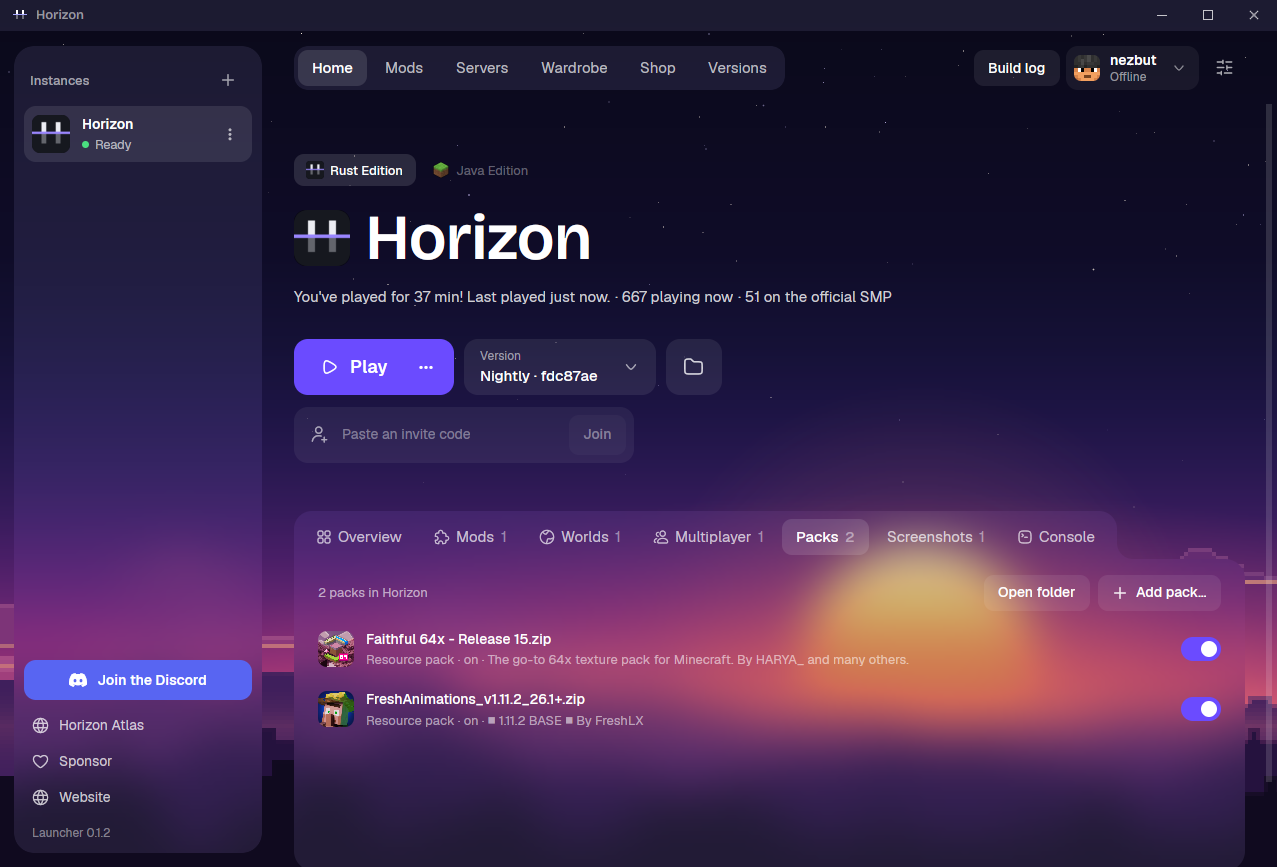
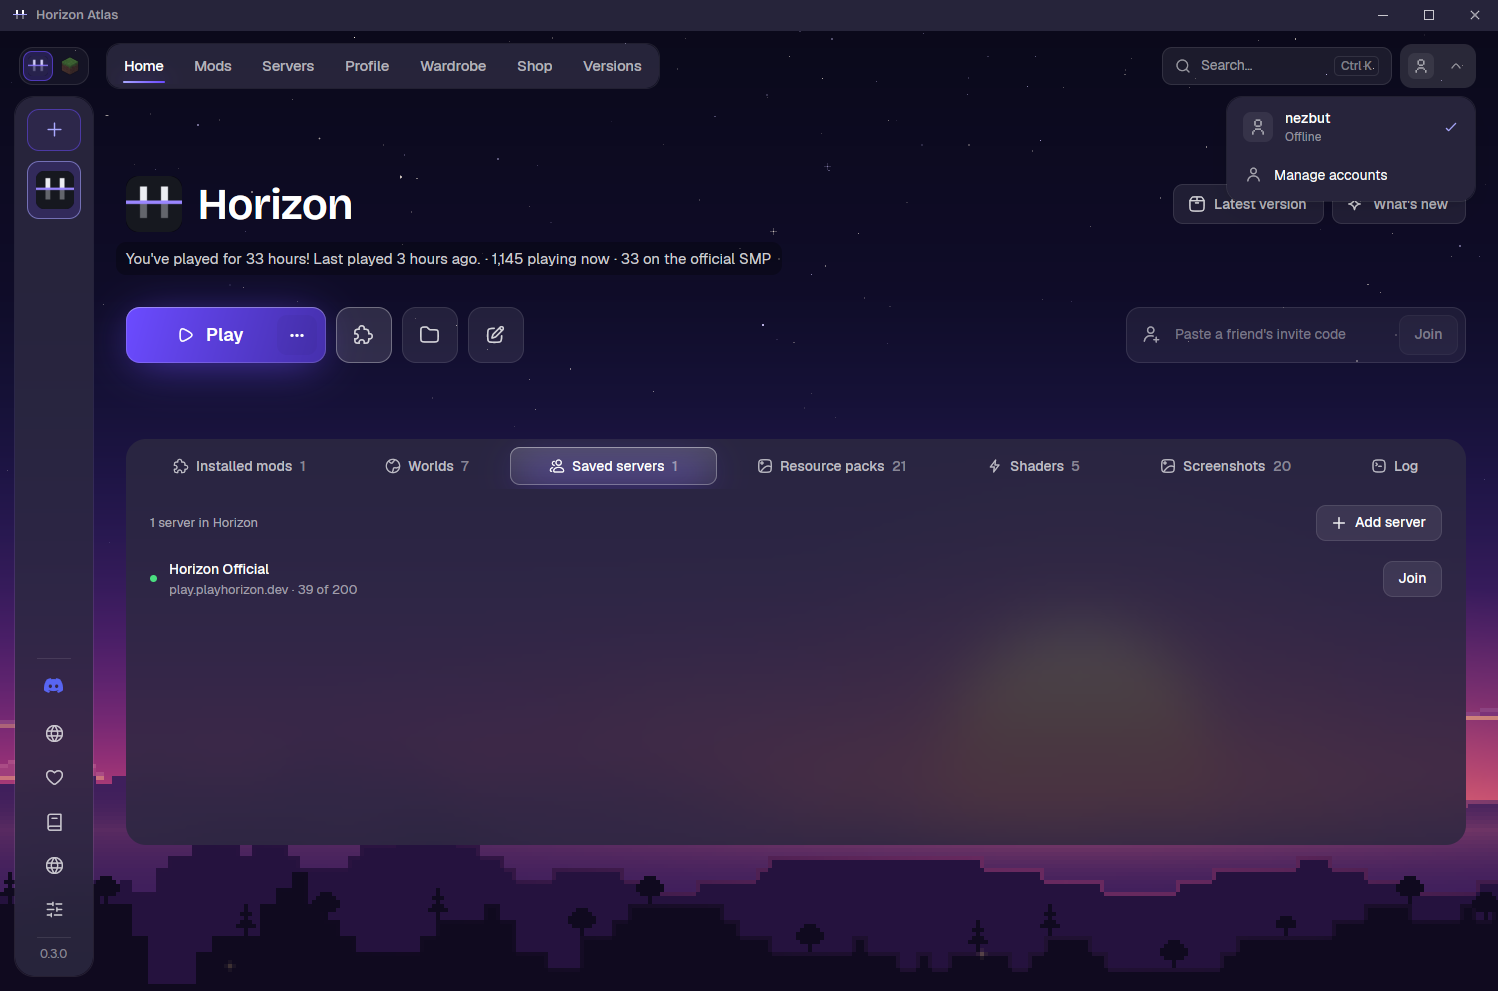
atlas: README shows the launcher's new Home page

diff --git a/README.ru.md b/README.ru.md
@@ -31,7 +31,7 @@
 </p>
 
 <p align="center">
-  <img src="docs/media/atlas/launcher.png" alt="Horizon Atlas: главная страница с кнопкой Play, офлайн-именем игрока, сборкой игры Nightly и двумя ресурспаками" width="100%">
+  <img src="docs/media/atlas/launcher.png" alt="Horizon Atlas: главная страница с кнопкой Play, меню аккаунта с офлайн-именем игрока и сохранённым сервером" width="100%">
 </p>
 
 > **Неофициальный.** Сделан игроком. Не связан с авторами Horizon, Mojang или Microsoft и не поддерживается ими: с

diff --git a/README.md b/README.md
@@ -31,7 +31,7 @@
 </p>
 
 <p align="center">
-  <img src="docs/media/atlas/launcher.png" alt="Horizon Atlas: the Home page with Play, an offline player name, the Nightly game build and two resource packs" width="100%">
+  <img src="docs/media/atlas/launcher.png" alt="Horizon Atlas: the Home page with Play, the account menu with an offline player name, and a saved server" width="100%">
 </p>
 
 > **Unofficial.** Made by a player. Not affiliated with, endorsed by or supported by Horizon's authors, Mojang or
